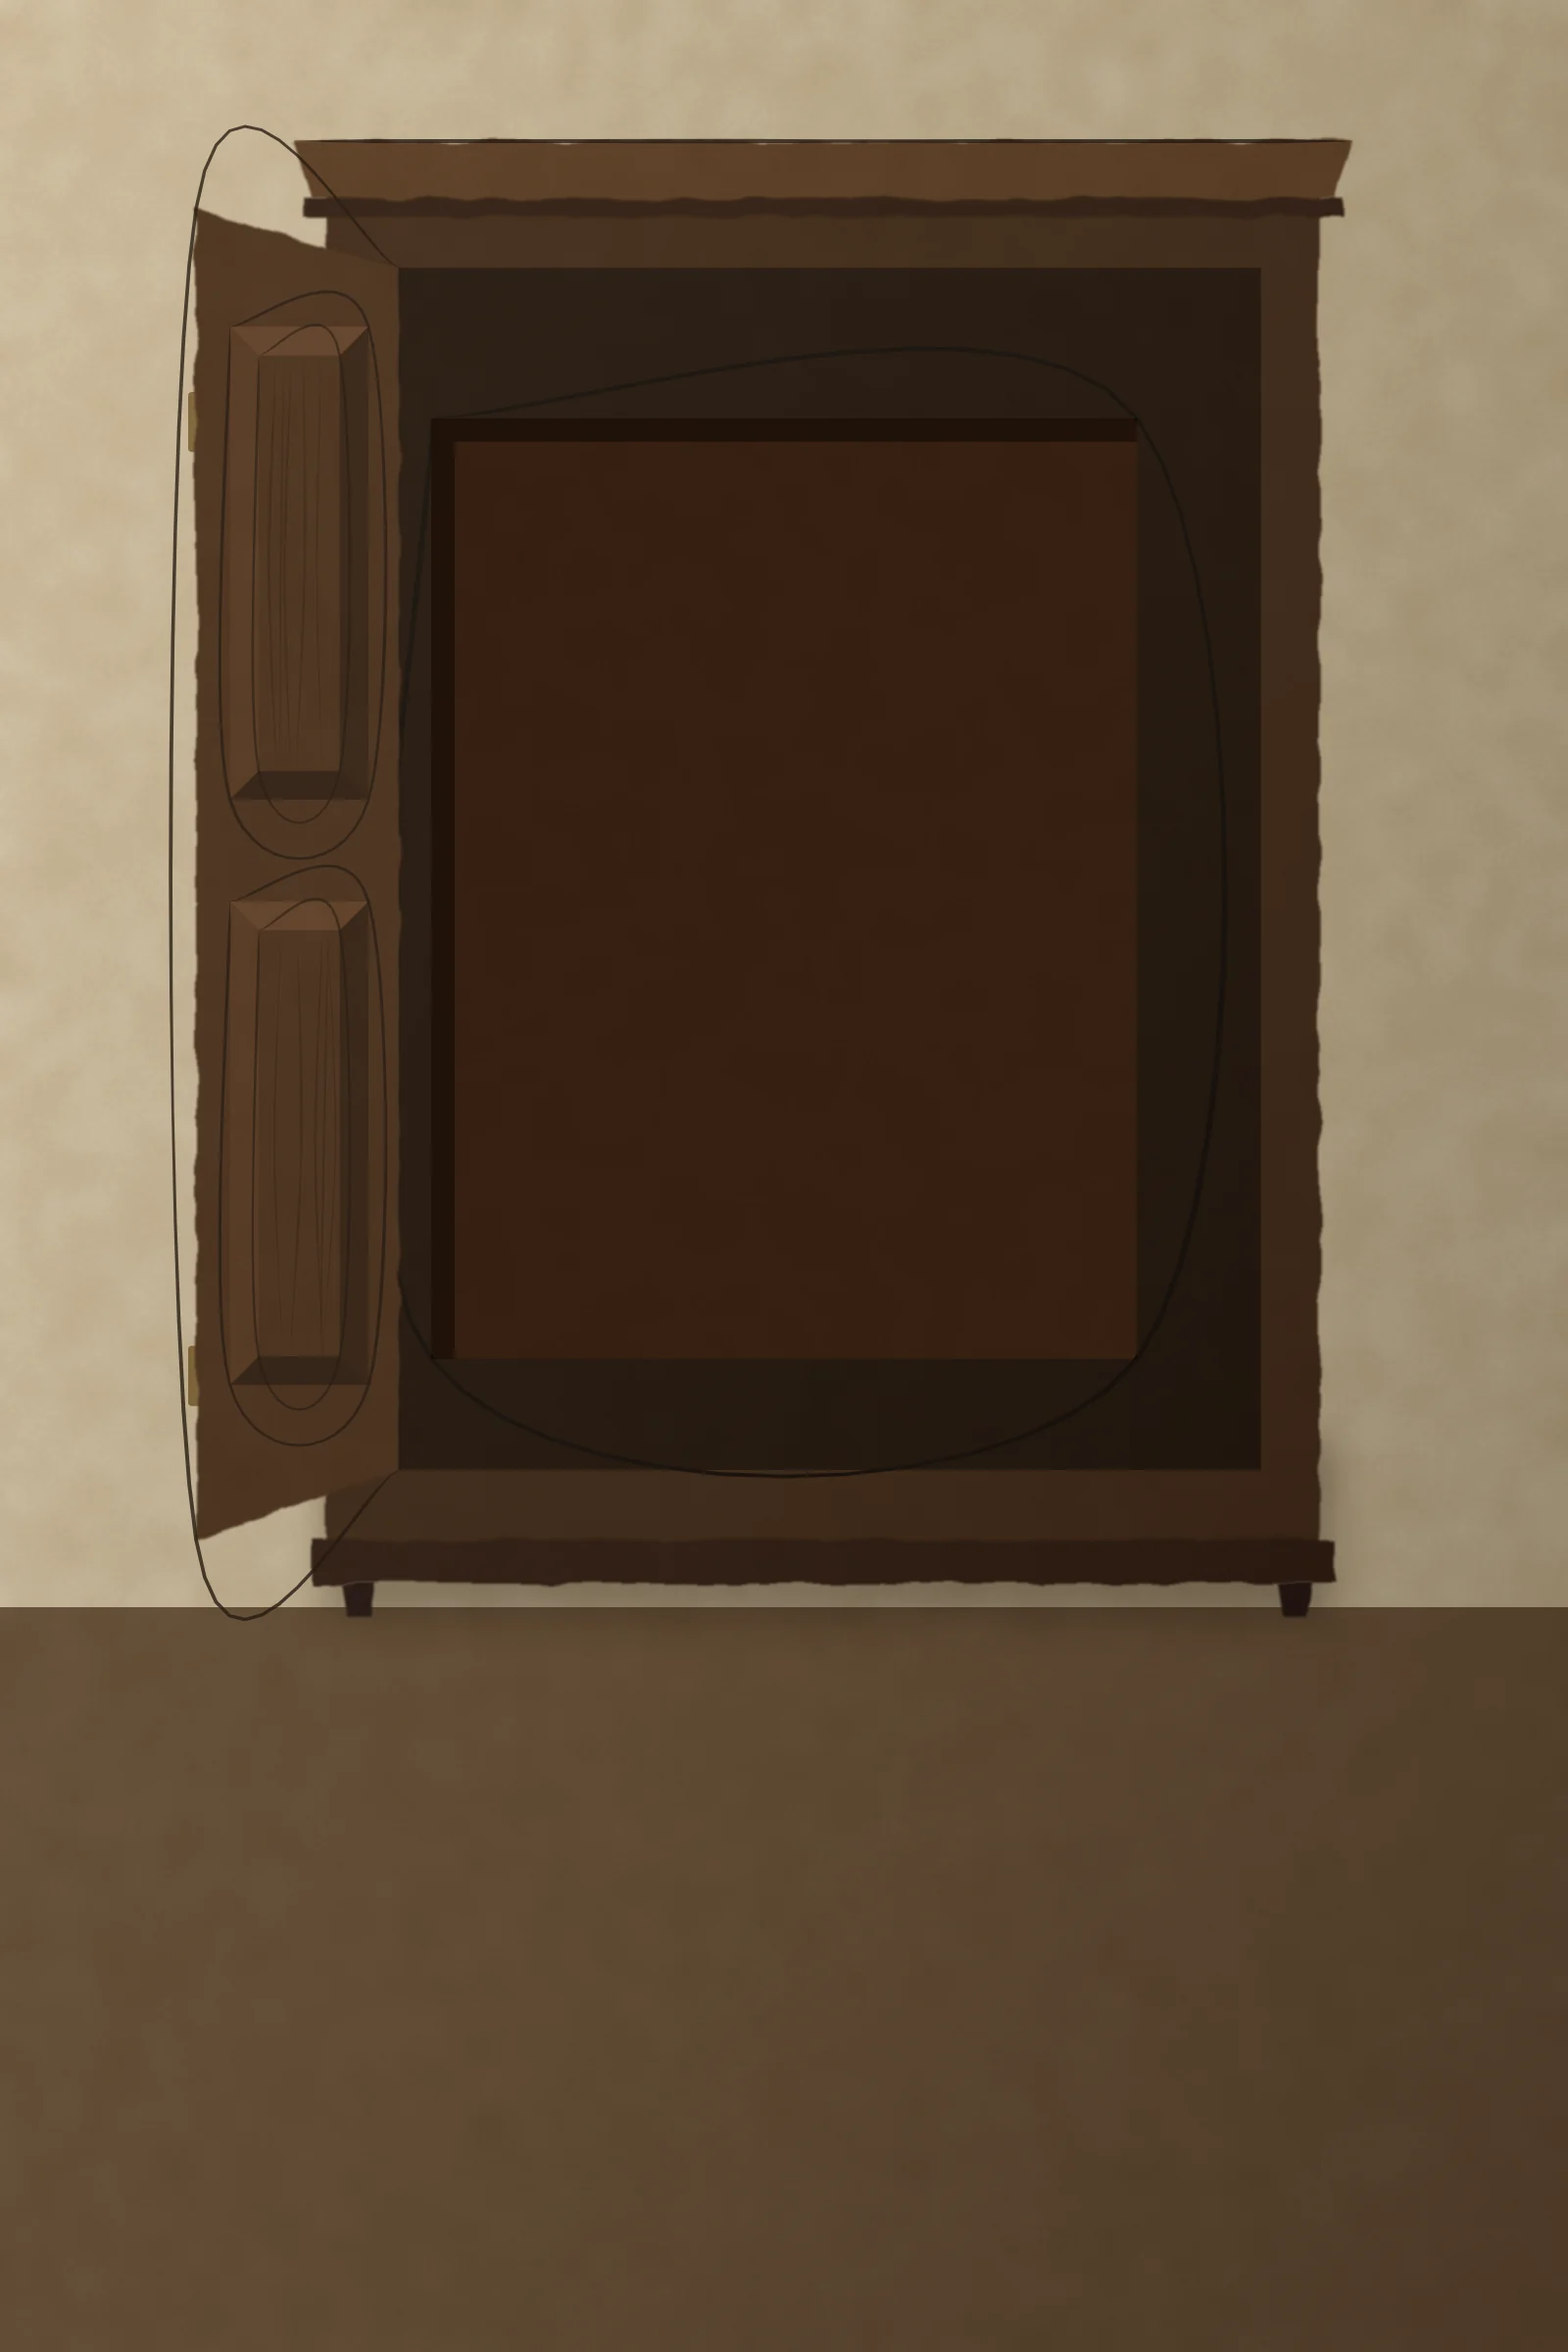
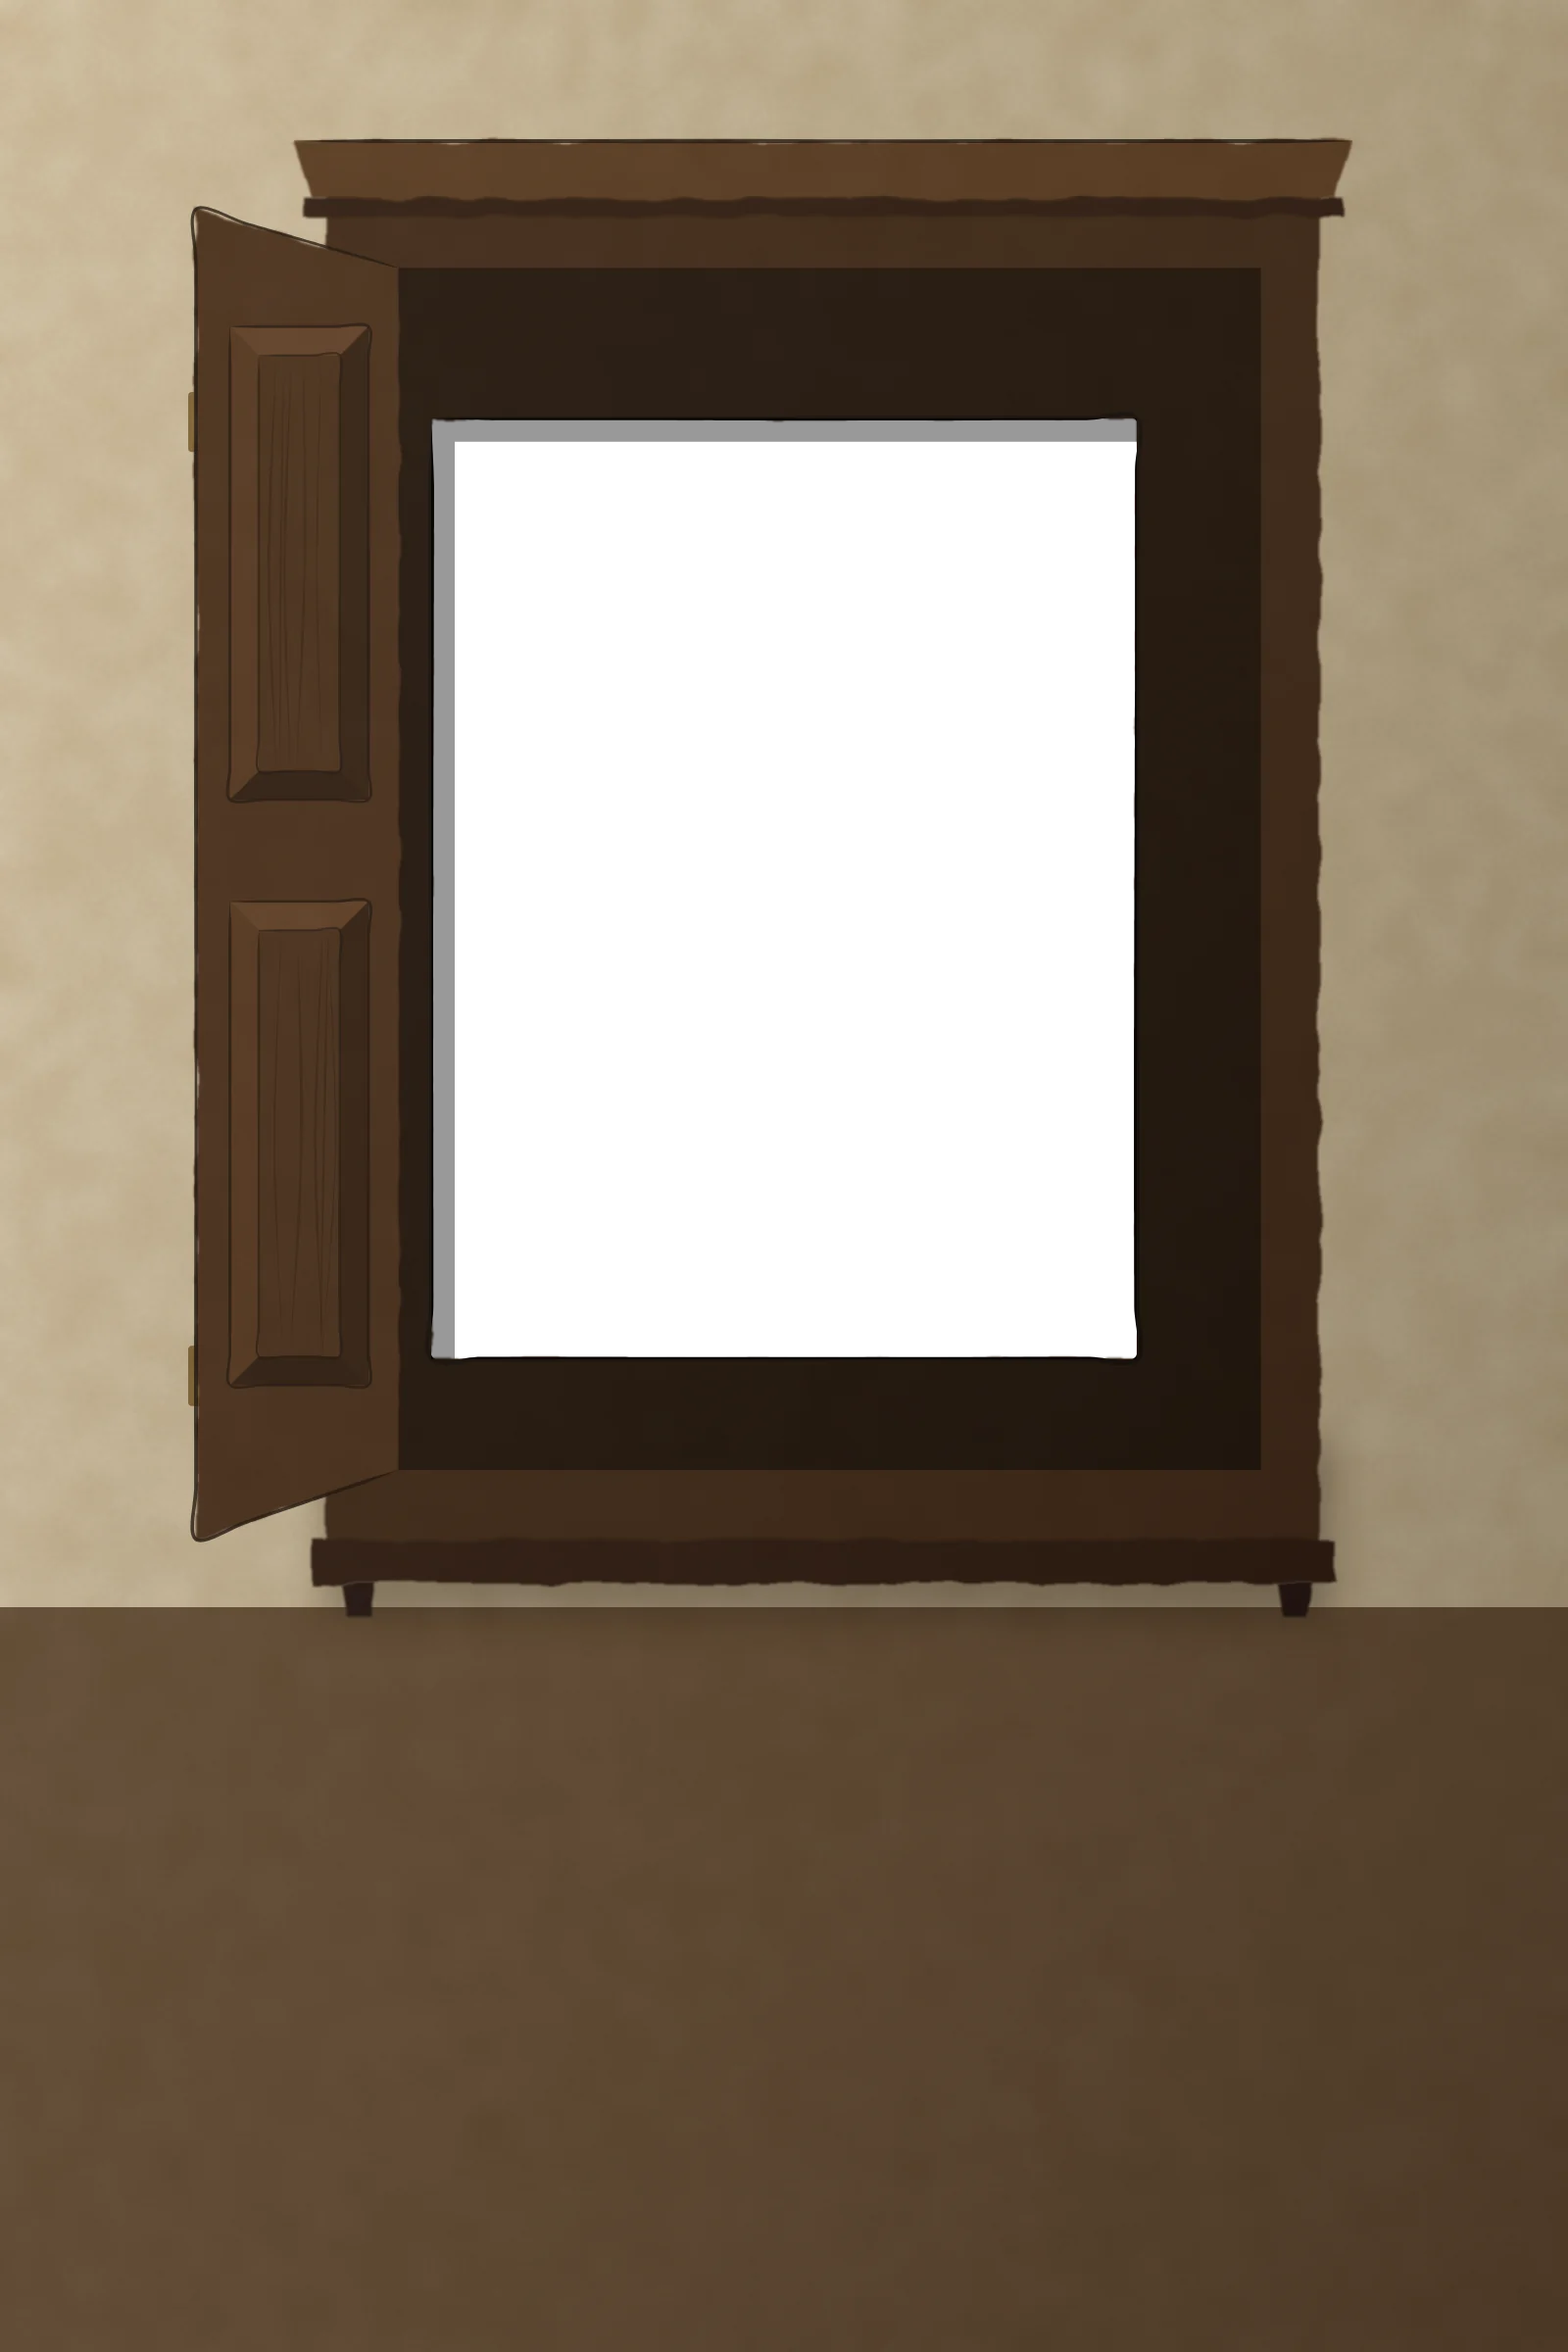
Darshan jouable : placard et toiles retouchés (en cours)
Claude-Session: https://claude.ai/code/session_01TCXcaRJLaw3PQyFLimBr36

Changed region(s): [[0.25, 0.1562, 0.75, 0.5938], [0.0938, 0.0938, 0.1562, 0.6562], [0.125, 0.0625, 0.1562, 0.0938]]

diff --git a/outils/darshan/art.py b/outils/darshan/art.py
@@ -1680,31 +1680,41 @@ def sujet(nom, boite, rng):
 
 
 def couple(rng, couleur=False):
-    """La toile du couple : deux silhouettes en longs traits sinueux, étirées par le mouvement, qui
-    tournent l'une autour de l'autre, les mains jointes au centre (610, 333) ; couleur=True : leur
+    """La toile du couple : deux silhouettes sinueuses et étirées, qui ondulent comme deux flammes,
+    penchées l'une vers l'autre, les mains jointes au centre (610, 333) ; chaque corps entre deux
+    longs traits d'encre, elle à gauche, ses cheveux dénoués, lui à droite. couleur=True : leur
     aquarelle seule, l'orange pour elle, le jaune pour lui, arrêtée aux berges d'encre."""
-    elle = [(528, 168), (548, 236), (552, 318), (528, 420), (486, 518)]
-    lui = [(700, 170), (684, 240), (672, 330), (700, 440), (752, 528)]
-    bras_elle = [(546, 246), (582, 298), (608, 331)]
-    bras_lui = [(682, 256), (642, 300), (613, 334)]
-    robe = [(556, 300), (600, 392), (648, 462), (700, 500)]
+    elle = ([(550, 196), (534, 252), (522, 318), (532, 396), (510, 468), (466, 544)],
+            [(566, 204), (572, 262), (564, 330), (572, 412), (556, 494), (524, 552)])
+    lui = ([(664, 194), (680, 252), (694, 326), (684, 406), (702, 480), (748, 546)],
+           [(650, 200), (648, 264), (656, 340), (650, 420), (664, 500), (694, 554)])
+    bras = ([(566, 238), (590, 292), (607, 331)], [(650, 234), (632, 290), (613, 333)])
+    tetes = ((552, 172, 18, "#e8862a"), (664, 168, 19, "#e8c42a"))
+    cheveux = [(540, 160), (514, 180), (500, 224), (510, 266), (498, 300)]
+
+    def corps(av, ar):
+        return poly(catmull_rom(av, 6) + catmull_rom(ar[::-1], 6))
     if couleur:
         rc = random.Random(5)
-        return (lavis(trait(elle, 50, rc, 0.2, 0.55, 0.1), "#e8862a", 0.8, "aquarelle") +
-                lavis(trait(robe, 22, rc, 0.2, 0.7, 0.2), "#e8862a", 0.7, "aquarelle") +
-                lavis(trait(bras_elle, 12, rc, 0.2, 0.3, 0.1), "#e8862a", 0.8, "aquarelle") +
-                lavis(trait(lui, 54, rc, 0.2, 0.55, 0.1), "#e8c42a", 0.8, "aquarelle") +
-                lavis(trait(bras_lui, 13, rc, 0.2, 0.3, 0.1), "#e8c42a", 0.8, "aquarelle") +
-                '<circle cx="610" cy="333" r="16" fill="#e8a62a" opacity="0.8" filter="url(#aquarelle)"/>' +
-                '<circle cx="522" cy="150" r="16" fill="#e8862a" opacity="0.75" filter="url(#aquarelle)"/>' +
-                '<circle cx="705" cy="152" r="17" fill="#e8c42a" opacity="0.75" filter="url(#aquarelle)"/>')
+        out = []
+        for (av, ar), br, (x, y, r, c) in zip((elle, lui), bras, tetes):
+            out.append(lavis(corps(av, ar), c, 0.85, "aquarelle"))
+            out.append(lavis(trait(br, 12, rc, 0.2, 0.3, 0.1), c, 0.8, "aquarelle"))
+            out.append(f'<circle cx="{x}" cy="{y}" r="{r - 2}" fill="{c}" opacity="0.8" filter="url(#aquarelle)"/>')
+        out.append(lavis(trait(cheveux, 16, rc, 0.2, 0.7, 0.3), "#d8641a", 0.6, "aquarelle"))
+        out.append('<circle cx="610" cy="333" r="15" fill="#e8a62a" opacity="0.8" filter="url(#aquarelle)"/>')
+        return "".join(out)
     out = []
-    for corps, bras, tete, r in ((elle, bras_elle, (522, 150), 20), (lui, bras_lui, (705, 152), 21)):
-        out.append(lavis(trait(corps, 56, rng, 0.2, 0.55, 0.1), "#2a2a38", 0.12, "aquarelle"))
-        out.append(trait_toile(corps, 5.5, rng, fin="volute"))
-        out.append(trait_toile(bras, 3.4, rng, fin="volute"))
-        out.append(f'<circle cx="{tete[0]}" cy="{tete[1]}" r="{r}" fill="none" stroke="{ENCRE}" stroke-width="4.5" filter="url(#bord-encre)"/>')
-    out.append(trait_toile(robe, 3.2, rng, fin="racine"))
+    for (av, ar), br, (x, y, r, _) in zip((elle, lui), bras, tetes):
+        out.append(lavis(corps(av, ar), "#2a2a38", 0.16, "aquarelle"))
+        out.append(trait_toile(av, 5.2, rng, fin="volute"))
+        out.append(trait_toile(ar, 3.4, rng, fin="racine"))
+        out.append(trait_toile(br, 3.2, rng, fin="volute"))
+        tour = [(x + r * math.cos(a), y + r * math.sin(a)) for a in [2.2 + k * 0.62 for k in range(10)]]
+        out.append(f'<circle cx="{x}" cy="{y}" r="{r}" fill="#2a2a38" opacity="0.14" filter="url(#aquarelle)"/>')
+        out.append(f'<path d="{trait(tour, 4.4, rng, 0.1, 0.4, 0.2)}" fill="{ENCRE}" opacity="0.9"/>')
+    out.append(trait_toile(cheveux, 3.0, rng, fin="volute"))
+    out.append(f'<circle cx="610" cy="333" r="6" fill="{ENCRE}" opacity="0.85" filter="url(#bord-encre)"/>')
     return "".join(out)
 
 
@@ -1728,7 +1738,7 @@ def toiles(calque=None, graine=91):
         out.append(sujet(nom, boite, rng))
     x0, y0, x1, y1 = TOILE_COUPLE
     out.append(toile_de_lin(x0, y0, x1, y1, rng))
-    out.append(couple(rng))
+    out.append(f'<g clip-path="url(#toile-couple)">{couple(rng)}</g>')
     # la table basse laquée, et ce qui est posé dessus
     out.append(f'<rect x="330" y="1040" width="540" height="60" fill="#3a2a20" opacity="0.35" filter="url(#flou-toile)"/>')
     out.append(lavis(poly([(350, 994), (850, 994), (872, 1020), (328, 1020)]), "#4a1a14", 1.0, "aquarelle-douce"))
@@ -1743,7 +1753,7 @@ def toiles(calque=None, graine=91):
     out.append(f'<path d="{trait([(600, 984), (599, 1000 - 72)], 2.6, rng, 0.02, 0.05, 0.05)}" fill="#6a3a1a"/>')
     out.append(f'<circle cx="599" cy="928" r="3.2" fill="#ff7a2a"/>')
     out.append(f'<rect width="{W}" height="{H}" fill="url(#lumiere-toiles)"/>')
-    defs = DEFS_AQUARELLE + FILTRE_ENCRE + """
+    defs = DEFS_AQUARELLE + FILTRE_ENCRE + f'<clipPath id="toile-couple"><rect x="{x0}" y="{y0}" width="{x1 - x0}" height="{y1 - y0}"/></clipPath>' + """
 <linearGradient id="mur-toiles" x1="0" y1="0" x2="1" y2="0.3">
   <stop offset="0" stop-color="#f7f1e4"/><stop offset="1" stop-color="#ddd3c0"/>
 </linearGradient>
@@ -1821,7 +1831,7 @@ def placard(etat="entrouverte", graine=97):
         fond = (f'<path d="M0,0 H{W} V{H} H0 Z M{ox0},{oy0} H{ox1} V{oy1} H{ox0} Z" fill="url(#mur-placard)" fill-rule="evenodd"/>'
                 f'<path d="M0,1230 H{W} V{H} H0 Z" fill="#6a5440"/>')
     corps = [f'<rect x="248" y="1100" width="770" height="140" fill="#2a1a0e" opacity="0.4" filter="url(#flou-placard)"/>']
-    trou = f"M250,150 H1010 V1190 H250 Z M{ox0},{oy0} H{ox1} V{oy1} H{ox0} Z"
+    trou = f"M250,150 H1010 V1190 H250 Z M{ox0},{oy0} V{oy1} H{ox1} V{oy0} Z"      # le trou tourne à l'envers : il reste vide
     corps.append(lavis(trou if etat == "ouverte" else "M250,150 H1010 V1190 H250 Z", "#3e2718", 1.0, "aquarelle-douce"))
     corps.append(lavis("M225,108 H1035 L1022,152 H238 Z", "#5a3a24", 1.0, "aquarelle-douce"))
     corps.append(lavis("M232,152 H1028 V166 H232 Z", "#2a180c", 1.0, "aquarelle-douce"))
